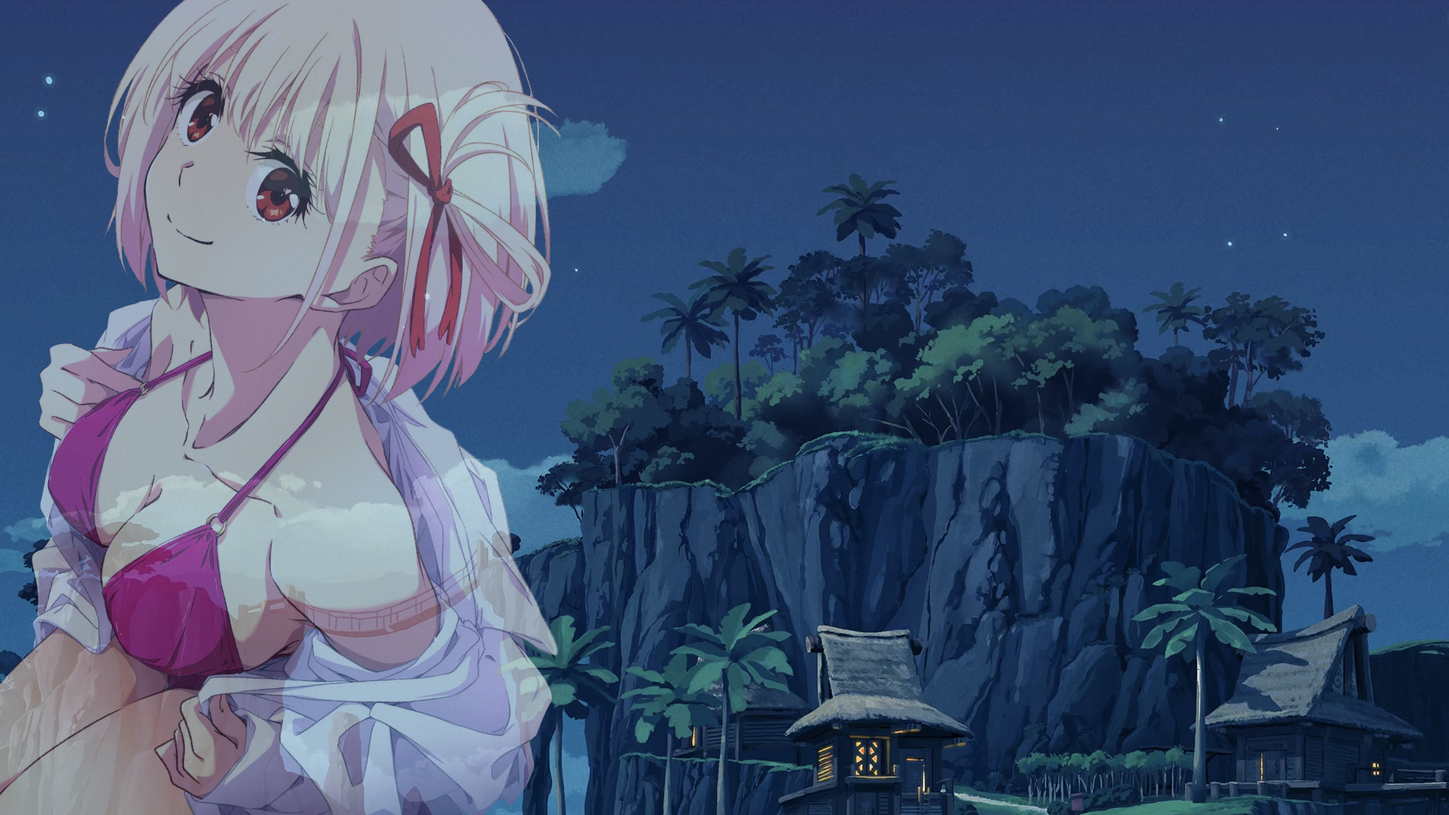
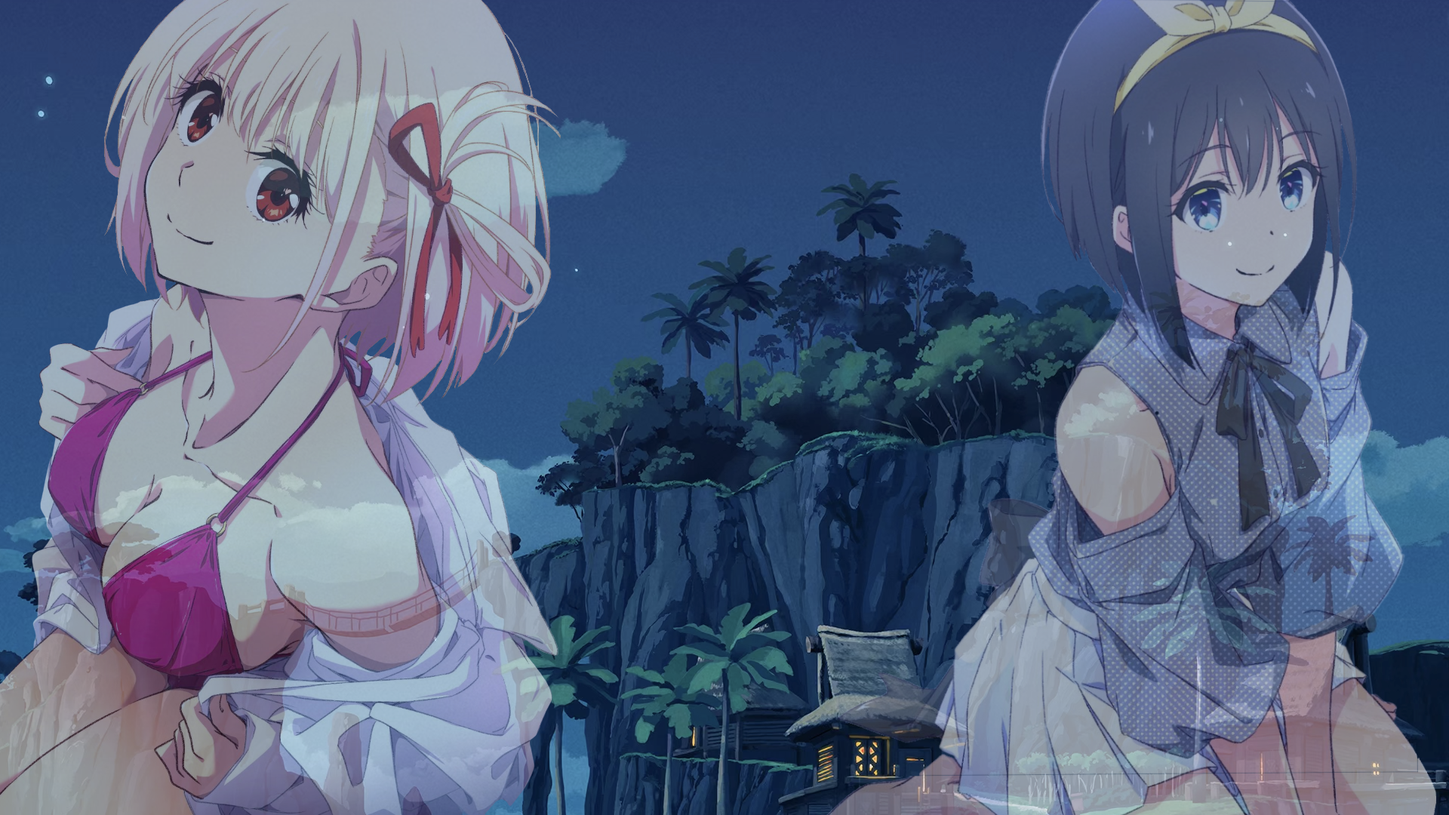
Site updated: 2023-07-01 13:19:53

Changed region(s): [[0.5625, 0.0, 1.0, 1.0]]

diff --git a/index.html b/index.html
@@ -64,7 +64,7 @@
     <script id="hexo-configurations">
     let Global = window.Global || {};
     Global.hexo_config = {"hostname":"r0yx1e.github.io","root":"/","language":"zh-CN"};
-    Global.theme_config = {"articles":{"style":{"font_size":"16px","line_height":1.5,"image_border_radius":"14px","image_alignment":"center","image_caption":false,"link_icon":true},"word_count":{"enable":true,"count":true,"min2read":true},"author_label":{"enable":false,"auto":false,"list":[]},"code_block":{"copy":true,"style":"mac","font":{"enable":false,"family":null,"url":null}},"toc":{"enable":true,"max_depth":3,"number":false,"expand":true,"init_open":true},"copyright":false,"lazyload":true,"recommendation":{"enable":false,"title":"推荐阅读","limit":3,"mobile_limit":2,"placeholder":"/images/wallhaven-wqery6-light.webp","skip_dirs":[]}},"colors":{"primary":"#0096FF","secondary":null},"global":{"fonts":{"chinese":{"enable":false,"family":null,"url":null},"english":{"enable":false,"family":null,"url":null}},"content_max_width":"1000px","sidebar_width":"210px","hover":{"shadow":true,"scale":false},"scroll_progress":{"bar":true,"percentage":true},"busuanzi_counter":{"enable":false,"site_pv":true,"site_uv":true,"post_pv":true},"pjax":true,"open_graph":true,"google_analytics":{"enable":false,"id":null}},"home_banner":{"enable":true,"style":"static","image":{"light":"/images/blackgroud_light.webp","dark":"/images/blackgroud_dark.webp"},"title":"大大的原木墩","subtitle":{"text":[],"hitokoto":{"enable":false,"api":"https://v1.hitokoto.cn"},"typing_speed":100,"backing_speed":80,"starting_delay":500,"backing_delay":1500,"loop":true,"smart_backspace":true},"text_color":{"light":"#fff","dark":"#d1d1b6"},"text_style":{"title_size":"2.8rem","subtitle_size":"1.5rem","line_height":1.2},"custom_font":{"enable":false,"family":null,"url":null},"social_links":{"enable":true,"links":{"github":"https://github.com/R0yX1e","instagram":null,"zhihu":null,"twitter":"https://twitter.com/r0yx1e","email":"r0yx1egithubio@duck.com","telegram":"https://telegram.me/r0yx1e"}}},"plugins":{"feed":{"enable":false},"aplayer":{"enable":true,"type":"fixed","audios":[{"name":null,"artist":null,"url":null,"cover":null}]},"mermaid":{"enable":false,"version":"9.3.0"}},"version":"2.2.1","navbar":{"auto_hide":false,"color":{"left":"#f78736","right":"#367df7","transparency":35},"links":{"Home":{"path":"/","icon":"fa-regular fa-house"},"About":{"path":"/About","icon":"fa-regular fa-user"}},"search":{"enable":false,"preload":true}},"page_templates":{"friends_column":2,"tags_style":"blur"},"home":{"sidebar":{"enable":true,"position":"left","first_item":"menu","announcement":null,"links":null},"article_date_format":"auto","categories":{"enable":true,"limit":3},"tags":{"enable":false,"limit":3}},"footerStart":"2022/8/17 11:45:14"};
+    Global.theme_config = {"articles":{"style":{"font_size":"16px","line_height":1.5,"image_border_radius":"14px","image_alignment":"center","image_caption":false,"link_icon":true},"word_count":{"enable":true,"count":true,"min2read":true},"author_label":{"enable":false,"auto":false,"list":[]},"code_block":{"copy":true,"style":"mac","font":{"enable":false,"family":null,"url":null}},"toc":{"enable":true,"max_depth":3,"number":false,"expand":true,"init_open":true},"copyright":false,"lazyload":true,"recommendation":{"enable":false,"title":"推荐阅读","limit":3,"mobile_limit":2,"placeholder":"/images/wallhaven-wqery6-light.webp","skip_dirs":[]}},"colors":{"primary":"#0096FF","secondary":null},"global":{"fonts":{"chinese":{"enable":false,"family":null,"url":null},"english":{"enable":false,"family":null,"url":null}},"content_max_width":"1000px","sidebar_width":"210px","hover":{"shadow":true,"scale":false},"scroll_progress":{"bar":true,"percentage":true},"busuanzi_counter":{"enable":false,"site_pv":true,"site_uv":true,"post_pv":true},"pjax":true,"open_graph":true,"google_analytics":{"enable":false,"id":null}},"home_banner":{"enable":true,"style":"fixed","image":{"light":"/images/blackgroud_light.webp","dark":"/images/blackgroud_dark.webp"},"title":"大大的原木墩","subtitle":{"text":["加载中..."],"hitokoto":{"enable":true,"api":"https://v1.hitokoto.cn?c=l"},"typing_speed":100,"backing_speed":80,"starting_delay":500,"backing_delay":1500,"loop":false,"smart_backspace":false},"text_color":{"light":"#fff","dark":"#d1d1b6"},"text_style":{"title_size":"2.8rem","subtitle_size":"1.5rem","line_height":1.2},"custom_font":{"enable":false,"family":null,"url":null},"social_links":{"enable":true,"links":{"github":"https://github.com/R0yX1e","instagram":null,"zhihu":null,"twitter":"https://twitter.com/r0yx1e","email":"r0yx1egithubio@duck.com","telegram":"https://telegram.me/r0yx1e"}}},"plugins":{"feed":{"enable":false},"aplayer":{"enable":true,"type":"fixed","audios":[{"name":null,"artist":null,"url":null,"cover":null}]},"mermaid":{"enable":false,"version":"9.3.0"}},"version":"2.2.1","navbar":{"auto_hide":false,"color":{"left":"#f78736","right":"#367df7","transparency":35},"links":{"Home":{"path":"/","icon":"fa-regular fa-house"},"About":{"path":"/About","icon":"fa-regular fa-user"}},"search":{"enable":false,"preload":true}},"page_templates":{"friends_column":2,"tags_style":"blur"},"home":{"sidebar":{"enable":true,"position":"left","first_item":"menu","announcement":null,"links":null},"article_date_format":"auto","categories":{"enable":true,"limit":3},"tags":{"enable":false,"limit":3}},"footerStart":"2022/8/17 11:45:14"};
     Global.language_ago = {"second":"%s 秒前","minute":"%s 分钟前","hour":"%s 小时前","day":"%s 天前","week":"%s 周前","month":"%s 个月前","year":"%s 年前"};
     Global.data_config = {"masonry":false};
   </script>
@@ -108,6 +108,37 @@
 
     
         
+    <style>
+        .home-banner-container {
+            background: transparent !important;
+        }
+        .home-article-item,
+        .sidebar-links,
+        .sidebar-content,
+        a.page-number,
+        a.extend,
+        .sidebar-links .links:hover,
+        .right-bottom-tools,
+        footer.footer {
+            background-color: var(--background-color-transparent-80) !important;
+        }
+        .right-bottom-tools:hover,
+        a.page-number:hover,
+        a.extend:hover {
+            background-color: var(--primary-color) !important;
+        }
+        .site-info,
+        .home-article-sticky-label {
+            background-color: var(--background-color-transparent-15) !important;
+        }
+        .home-article-sticky-label {
+            backdrop-filter: none !important;
+        }
+    </style>
+
+    <div class="home-banner-background">
+    </div>
+
 
 <div class="home-banner-container flex-center">
     <div class="content flex-center">

diff --git a/2023/06/30/海信-VIDDA-提权/index.html b/2023/06/30/海信-VIDDA-提权/index.html
@@ -81,7 +81,7 @@
     <script id="hexo-configurations">
     let Global = window.Global || {};
     Global.hexo_config = {"hostname":"r0yx1e.github.io","root":"/","language":"zh-CN"};
-    Global.theme_config = {"articles":{"style":{"font_size":"16px","line_height":1.5,"image_border_radius":"14px","image_alignment":"center","image_caption":false,"link_icon":true},"word_count":{"enable":true,"count":true,"min2read":true},"author_label":{"enable":false,"auto":false,"list":[]},"code_block":{"copy":true,"style":"mac","font":{"enable":false,"family":null,"url":null}},"toc":{"enable":true,"max_depth":3,"number":false,"expand":true,"init_open":true},"copyright":false,"lazyload":true,"recommendation":{"enable":false,"title":"推荐阅读","limit":3,"mobile_limit":2,"placeholder":"/images/wallhaven-wqery6-light.webp","skip_dirs":[]}},"colors":{"primary":"#0096FF","secondary":null},"global":{"fonts":{"chinese":{"enable":false,"family":null,"url":null},"english":{"enable":false,"family":null,"url":null}},"content_max_width":"1000px","sidebar_width":"210px","hover":{"shadow":true,"scale":false},"scroll_progress":{"bar":true,"percentage":true},"busuanzi_counter":{"enable":false,"site_pv":true,"site_uv":true,"post_pv":true},"pjax":true,"open_graph":true,"google_analytics":{"enable":false,"id":null}},"home_banner":{"enable":true,"style":"static","image":{"light":"/images/blackgroud_light.webp","dark":"/images/blackgroud_dark.webp"},"title":"大大的原木墩","subtitle":{"text":[],"hitokoto":{"enable":false,"api":"https://v1.hitokoto.cn"},"typing_speed":100,"backing_speed":80,"starting_delay":500,"backing_delay":1500,"loop":true,"smart_backspace":true},"text_color":{"light":"#fff","dark":"#d1d1b6"},"text_style":{"title_size":"2.8rem","subtitle_size":"1.5rem","line_height":1.2},"custom_font":{"enable":false,"family":null,"url":null},"social_links":{"enable":true,"links":{"github":"https://github.com/R0yX1e","instagram":null,"zhihu":null,"twitter":"https://twitter.com/r0yx1e","email":"r0yx1egithubio@duck.com","telegram":"https://telegram.me/r0yx1e"}}},"plugins":{"feed":{"enable":false},"aplayer":{"enable":true,"type":"fixed","audios":[{"name":null,"artist":null,"url":null,"cover":null}]},"mermaid":{"enable":false,"version":"9.3.0"}},"version":"2.2.1","navbar":{"auto_hide":false,"color":{"left":"#f78736","right":"#367df7","transparency":35},"links":{"Home":{"path":"/","icon":"fa-regular fa-house"},"About":{"path":"/About","icon":"fa-regular fa-user"}},"search":{"enable":false,"preload":true}},"page_templates":{"friends_column":2,"tags_style":"blur"},"home":{"sidebar":{"enable":true,"position":"left","first_item":"menu","announcement":null,"links":null},"article_date_format":"auto","categories":{"enable":true,"limit":3},"tags":{"enable":false,"limit":3}},"footerStart":"2022/8/17 11:45:14"};
+    Global.theme_config = {"articles":{"style":{"font_size":"16px","line_height":1.5,"image_border_radius":"14px","image_alignment":"center","image_caption":false,"link_icon":true},"word_count":{"enable":true,"count":true,"min2read":true},"author_label":{"enable":false,"auto":false,"list":[]},"code_block":{"copy":true,"style":"mac","font":{"enable":false,"family":null,"url":null}},"toc":{"enable":true,"max_depth":3,"number":false,"expand":true,"init_open":true},"copyright":false,"lazyload":true,"recommendation":{"enable":false,"title":"推荐阅读","limit":3,"mobile_limit":2,"placeholder":"/images/wallhaven-wqery6-light.webp","skip_dirs":[]}},"colors":{"primary":"#0096FF","secondary":null},"global":{"fonts":{"chinese":{"enable":false,"family":null,"url":null},"english":{"enable":false,"family":null,"url":null}},"content_max_width":"1000px","sidebar_width":"210px","hover":{"shadow":true,"scale":false},"scroll_progress":{"bar":true,"percentage":true},"busuanzi_counter":{"enable":false,"site_pv":true,"site_uv":true,"post_pv":true},"pjax":true,"open_graph":true,"google_analytics":{"enable":false,"id":null}},"home_banner":{"enable":true,"style":"fixed","image":{"light":"/images/blackgroud_light.webp","dark":"/images/blackgroud_dark.webp"},"title":"大大的原木墩","subtitle":{"text":["加载中..."],"hitokoto":{"enable":true,"api":"https://v1.hitokoto.cn?c=l"},"typing_speed":100,"backing_speed":80,"starting_delay":500,"backing_delay":1500,"loop":false,"smart_backspace":false},"text_color":{"light":"#fff","dark":"#d1d1b6"},"text_style":{"title_size":"2.8rem","subtitle_size":"1.5rem","line_height":1.2},"custom_font":{"enable":false,"family":null,"url":null},"social_links":{"enable":true,"links":{"github":"https://github.com/R0yX1e","instagram":null,"zhihu":null,"twitter":"https://twitter.com/r0yx1e","email":"r0yx1egithubio@duck.com","telegram":"https://telegram.me/r0yx1e"}}},"plugins":{"feed":{"enable":false},"aplayer":{"enable":true,"type":"fixed","audios":[{"name":null,"artist":null,"url":null,"cover":null}]},"mermaid":{"enable":false,"version":"9.3.0"}},"version":"2.2.1","navbar":{"auto_hide":false,"color":{"left":"#f78736","right":"#367df7","transparency":35},"links":{"Home":{"path":"/","icon":"fa-regular fa-house"},"About":{"path":"/About","icon":"fa-regular fa-user"}},"search":{"enable":false,"preload":true}},"page_templates":{"friends_column":2,"tags_style":"blur"},"home":{"sidebar":{"enable":true,"position":"left","first_item":"menu","announcement":null,"links":null},"article_date_format":"auto","categories":{"enable":true,"limit":3},"tags":{"enable":false,"limit":3}},"footerStart":"2022/8/17 11:45:14"};
     Global.language_ago = {"second":"%s 秒前","minute":"%s 分钟前","hour":"%s 小时前","day":"%s 天前","week":"%s 周前","month":"%s 个月前","year":"%s 年前"};
     Global.data_config = {"masonry":false};
   </script>

diff --git a/404.html b/404.html
@@ -66,7 +66,7 @@
     <script id="hexo-configurations">
     let Global = window.Global || {};
     Global.hexo_config = {"hostname":"r0yx1e.github.io","root":"/","language":"zh-CN"};
-    Global.theme_config = {"articles":{"style":{"font_size":"16px","line_height":1.5,"image_border_radius":"14px","image_alignment":"center","image_caption":false,"link_icon":true},"word_count":{"enable":true,"count":true,"min2read":true},"author_label":{"enable":false,"auto":false,"list":[]},"code_block":{"copy":true,"style":"mac","font":{"enable":false,"family":null,"url":null}},"toc":{"enable":true,"max_depth":3,"number":false,"expand":true,"init_open":true},"copyright":false,"lazyload":true,"recommendation":{"enable":false,"title":"推荐阅读","limit":3,"mobile_limit":2,"placeholder":"/images/wallhaven-wqery6-light.webp","skip_dirs":[]}},"colors":{"primary":"#0096FF","secondary":null},"global":{"fonts":{"chinese":{"enable":false,"family":null,"url":null},"english":{"enable":false,"family":null,"url":null}},"content_max_width":"1000px","sidebar_width":"210px","hover":{"shadow":true,"scale":false},"scroll_progress":{"bar":true,"percentage":true},"busuanzi_counter":{"enable":false,"site_pv":true,"site_uv":true,"post_pv":true},"pjax":true,"open_graph":true,"google_analytics":{"enable":false,"id":null}},"home_banner":{"enable":true,"style":"static","image":{"light":"/images/blackgroud_light.webp","dark":"/images/blackgroud_dark.webp"},"title":"大大的原木墩","subtitle":{"text":[],"hitokoto":{"enable":false,"api":"https://v1.hitokoto.cn"},"typing_speed":100,"backing_speed":80,"starting_delay":500,"backing_delay":1500,"loop":true,"smart_backspace":true},"text_color":{"light":"#fff","dark":"#d1d1b6"},"text_style":{"title_size":"2.8rem","subtitle_size":"1.5rem","line_height":1.2},"custom_font":{"enable":false,"family":null,"url":null},"social_links":{"enable":true,"links":{"github":"https://github.com/R0yX1e","instagram":null,"zhihu":null,"twitter":"https://twitter.com/r0yx1e","email":"r0yx1egithubio@duck.com","telegram":"https://telegram.me/r0yx1e"}}},"plugins":{"feed":{"enable":false},"aplayer":{"enable":true,"type":"fixed","audios":[{"name":null,"artist":null,"url":null,"cover":null}]},"mermaid":{"enable":false,"version":"9.3.0"}},"version":"2.2.1","navbar":{"auto_hide":false,"color":{"left":"#f78736","right":"#367df7","transparency":35},"links":{"Home":{"path":"/","icon":"fa-regular fa-house"},"About":{"path":"/About","icon":"fa-regular fa-user"}},"search":{"enable":false,"preload":true}},"page_templates":{"friends_column":2,"tags_style":"blur"},"home":{"sidebar":{"enable":true,"position":"left","first_item":"menu","announcement":null,"links":null},"article_date_format":"auto","categories":{"enable":true,"limit":3},"tags":{"enable":false,"limit":3}},"footerStart":"2022/8/17 11:45:14"};
+    Global.theme_config = {"articles":{"style":{"font_size":"16px","line_height":1.5,"image_border_radius":"14px","image_alignment":"center","image_caption":false,"link_icon":true},"word_count":{"enable":true,"count":true,"min2read":true},"author_label":{"enable":false,"auto":false,"list":[]},"code_block":{"copy":true,"style":"mac","font":{"enable":false,"family":null,"url":null}},"toc":{"enable":true,"max_depth":3,"number":false,"expand":true,"init_open":true},"copyright":false,"lazyload":true,"recommendation":{"enable":false,"title":"推荐阅读","limit":3,"mobile_limit":2,"placeholder":"/images/wallhaven-wqery6-light.webp","skip_dirs":[]}},"colors":{"primary":"#0096FF","secondary":null},"global":{"fonts":{"chinese":{"enable":false,"family":null,"url":null},"english":{"enable":false,"family":null,"url":null}},"content_max_width":"1000px","sidebar_width":"210px","hover":{"shadow":true,"scale":false},"scroll_progress":{"bar":true,"percentage":true},"busuanzi_counter":{"enable":false,"site_pv":true,"site_uv":true,"post_pv":true},"pjax":true,"open_graph":true,"google_analytics":{"enable":false,"id":null}},"home_banner":{"enable":true,"style":"fixed","image":{"light":"/images/blackgroud_light.webp","dark":"/images/blackgroud_dark.webp"},"title":"大大的原木墩","subtitle":{"text":["加载中..."],"hitokoto":{"enable":true,"api":"https://v1.hitokoto.cn?c=l"},"typing_speed":100,"backing_speed":80,"starting_delay":500,"backing_delay":1500,"loop":false,"smart_backspace":false},"text_color":{"light":"#fff","dark":"#d1d1b6"},"text_style":{"title_size":"2.8rem","subtitle_size":"1.5rem","line_height":1.2},"custom_font":{"enable":false,"family":null,"url":null},"social_links":{"enable":true,"links":{"github":"https://github.com/R0yX1e","instagram":null,"zhihu":null,"twitter":"https://twitter.com/r0yx1e","email":"r0yx1egithubio@duck.com","telegram":"https://telegram.me/r0yx1e"}}},"plugins":{"feed":{"enable":false},"aplayer":{"enable":true,"type":"fixed","audios":[{"name":null,"artist":null,"url":null,"cover":null}]},"mermaid":{"enable":false,"version":"9.3.0"}},"version":"2.2.1","navbar":{"auto_hide":false,"color":{"left":"#f78736","right":"#367df7","transparency":35},"links":{"Home":{"path":"/","icon":"fa-regular fa-house"},"About":{"path":"/About","icon":"fa-regular fa-user"}},"search":{"enable":false,"preload":true}},"page_templates":{"friends_column":2,"tags_style":"blur"},"home":{"sidebar":{"enable":true,"position":"left","first_item":"menu","announcement":null,"links":null},"article_date_format":"auto","categories":{"enable":true,"limit":3},"tags":{"enable":false,"limit":3}},"footerStart":"2022/8/17 11:45:14"};
     Global.language_ago = {"second":"%s 秒前","minute":"%s 分钟前","hour":"%s 小时前","day":"%s 天前","week":"%s 周前","month":"%s 个月前","year":"%s 年前"};
     Global.data_config = {"masonry":false};
   </script>

diff --git a/About/index.html b/About/index.html
@@ -68,7 +68,7 @@
     <script id="hexo-configurations">
     let Global = window.Global || {};
     Global.hexo_config = {"hostname":"r0yx1e.github.io","root":"/","language":"zh-CN"};
-    Global.theme_config = {"articles":{"style":{"font_size":"16px","line_height":1.5,"image_border_radius":"14px","image_alignment":"center","image_caption":false,"link_icon":true},"word_count":{"enable":true,"count":true,"min2read":true},"author_label":{"enable":false,"auto":false,"list":[]},"code_block":{"copy":true,"style":"mac","font":{"enable":false,"family":null,"url":null}},"toc":{"enable":true,"max_depth":3,"number":false,"expand":true,"init_open":true},"copyright":false,"lazyload":true,"recommendation":{"enable":false,"title":"推荐阅读","limit":3,"mobile_limit":2,"placeholder":"/images/wallhaven-wqery6-light.webp","skip_dirs":[]}},"colors":{"primary":"#0096FF","secondary":null},"global":{"fonts":{"chinese":{"enable":false,"family":null,"url":null},"english":{"enable":false,"family":null,"url":null}},"content_max_width":"1000px","sidebar_width":"210px","hover":{"shadow":true,"scale":false},"scroll_progress":{"bar":true,"percentage":true},"busuanzi_counter":{"enable":false,"site_pv":true,"site_uv":true,"post_pv":true},"pjax":true,"open_graph":true,"google_analytics":{"enable":false,"id":null}},"home_banner":{"enable":true,"style":"static","image":{"light":"/images/blackgroud_light.webp","dark":"/images/blackgroud_dark.webp"},"title":"大大的原木墩","subtitle":{"text":[],"hitokoto":{"enable":false,"api":"https://v1.hitokoto.cn"},"typing_speed":100,"backing_speed":80,"starting_delay":500,"backing_delay":1500,"loop":true,"smart_backspace":true},"text_color":{"light":"#fff","dark":"#d1d1b6"},"text_style":{"title_size":"2.8rem","subtitle_size":"1.5rem","line_height":1.2},"custom_font":{"enable":false,"family":null,"url":null},"social_links":{"enable":true,"links":{"github":"https://github.com/R0yX1e","instagram":null,"zhihu":null,"twitter":"https://twitter.com/r0yx1e","email":"r0yx1egithubio@duck.com","telegram":"https://telegram.me/r0yx1e"}}},"plugins":{"feed":{"enable":false},"aplayer":{"enable":true,"type":"fixed","audios":[{"name":null,"artist":null,"url":null,"cover":null}]},"mermaid":{"enable":false,"version":"9.3.0"}},"version":"2.2.1","navbar":{"auto_hide":false,"color":{"left":"#f78736","right":"#367df7","transparency":35},"links":{"Home":{"path":"/","icon":"fa-regular fa-house"},"About":{"path":"/About","icon":"fa-regular fa-user"}},"search":{"enable":false,"preload":true}},"page_templates":{"friends_column":2,"tags_style":"blur"},"home":{"sidebar":{"enable":true,"position":"left","first_item":"menu","announcement":null,"links":null},"article_date_format":"auto","categories":{"enable":true,"limit":3},"tags":{"enable":false,"limit":3}},"footerStart":"2022/8/17 11:45:14"};
+    Global.theme_config = {"articles":{"style":{"font_size":"16px","line_height":1.5,"image_border_radius":"14px","image_alignment":"center","image_caption":false,"link_icon":true},"word_count":{"enable":true,"count":true,"min2read":true},"author_label":{"enable":false,"auto":false,"list":[]},"code_block":{"copy":true,"style":"mac","font":{"enable":false,"family":null,"url":null}},"toc":{"enable":true,"max_depth":3,"number":false,"expand":true,"init_open":true},"copyright":false,"lazyload":true,"recommendation":{"enable":false,"title":"推荐阅读","limit":3,"mobile_limit":2,"placeholder":"/images/wallhaven-wqery6-light.webp","skip_dirs":[]}},"colors":{"primary":"#0096FF","secondary":null},"global":{"fonts":{"chinese":{"enable":false,"family":null,"url":null},"english":{"enable":false,"family":null,"url":null}},"content_max_width":"1000px","sidebar_width":"210px","hover":{"shadow":true,"scale":false},"scroll_progress":{"bar":true,"percentage":true},"busuanzi_counter":{"enable":false,"site_pv":true,"site_uv":true,"post_pv":true},"pjax":true,"open_graph":true,"google_analytics":{"enable":false,"id":null}},"home_banner":{"enable":true,"style":"fixed","image":{"light":"/images/blackgroud_light.webp","dark":"/images/blackgroud_dark.webp"},"title":"大大的原木墩","subtitle":{"text":["加载中..."],"hitokoto":{"enable":true,"api":"https://v1.hitokoto.cn?c=l"},"typing_speed":100,"backing_speed":80,"starting_delay":500,"backing_delay":1500,"loop":false,"smart_backspace":false},"text_color":{"light":"#fff","dark":"#d1d1b6"},"text_style":{"title_size":"2.8rem","subtitle_size":"1.5rem","line_height":1.2},"custom_font":{"enable":false,"family":null,"url":null},"social_links":{"enable":true,"links":{"github":"https://github.com/R0yX1e","instagram":null,"zhihu":null,"twitter":"https://twitter.com/r0yx1e","email":"r0yx1egithubio@duck.com","telegram":"https://telegram.me/r0yx1e"}}},"plugins":{"feed":{"enable":false},"aplayer":{"enable":true,"type":"fixed","audios":[{"name":null,"artist":null,"url":null,"cover":null}]},"mermaid":{"enable":false,"version":"9.3.0"}},"version":"2.2.1","navbar":{"auto_hide":false,"color":{"left":"#f78736","right":"#367df7","transparency":35},"links":{"Home":{"path":"/","icon":"fa-regular fa-house"},"About":{"path":"/About","icon":"fa-regular fa-user"}},"search":{"enable":false,"preload":true}},"page_templates":{"friends_column":2,"tags_style":"blur"},"home":{"sidebar":{"enable":true,"position":"left","first_item":"menu","announcement":null,"links":null},"article_date_format":"auto","categories":{"enable":true,"limit":3},"tags":{"enable":false,"limit":3}},"footerStart":"2022/8/17 11:45:14"};
     Global.language_ago = {"second":"%s 秒前","minute":"%s 分钟前","hour":"%s 小时前","day":"%s 天前","week":"%s 周前","month":"%s 个月前","year":"%s 年前"};
     Global.data_config = {"masonry":false};
   </script>

diff --git a/archives/2023/06/index.html b/archives/2023/06/index.html
@@ -66,7 +66,7 @@
     <script id="hexo-configurations">
     let Global = window.Global || {};
     Global.hexo_config = {"hostname":"r0yx1e.github.io","root":"/","language":"zh-CN"};
-    Global.theme_config = {"articles":{"style":{"font_size":"16px","line_height":1.5,"image_border_radius":"14px","image_alignment":"center","image_caption":false,"link_icon":true},"word_count":{"enable":true,"count":true,"min2read":true},"author_label":{"enable":false,"auto":false,"list":[]},"code_block":{"copy":true,"style":"mac","font":{"enable":false,"family":null,"url":null}},"toc":{"enable":true,"max_depth":3,"number":false,"expand":true,"init_open":true},"copyright":false,"lazyload":true,"recommendation":{"enable":false,"title":"推荐阅读","limit":3,"mobile_limit":2,"placeholder":"/images/wallhaven-wqery6-light.webp","skip_dirs":[]}},"colors":{"primary":"#0096FF","secondary":null},"global":{"fonts":{"chinese":{"enable":false,"family":null,"url":null},"english":{"enable":false,"family":null,"url":null}},"content_max_width":"1000px","sidebar_width":"210px","hover":{"shadow":true,"scale":false},"scroll_progress":{"bar":true,"percentage":true},"busuanzi_counter":{"enable":false,"site_pv":true,"site_uv":true,"post_pv":true},"pjax":true,"open_graph":true,"google_analytics":{"enable":false,"id":null}},"home_banner":{"enable":true,"style":"static","image":{"light":"/images/blackgroud_light.webp","dark":"/images/blackgroud_dark.webp"},"title":"大大的原木墩","subtitle":{"text":[],"hitokoto":{"enable":false,"api":"https://v1.hitokoto.cn"},"typing_speed":100,"backing_speed":80,"starting_delay":500,"backing_delay":1500,"loop":true,"smart_backspace":true},"text_color":{"light":"#fff","dark":"#d1d1b6"},"text_style":{"title_size":"2.8rem","subtitle_size":"1.5rem","line_height":1.2},"custom_font":{"enable":false,"family":null,"url":null},"social_links":{"enable":true,"links":{"github":"https://github.com/R0yX1e","instagram":null,"zhihu":null,"twitter":"https://twitter.com/r0yx1e","email":"r0yx1egithubio@duck.com","telegram":"https://telegram.me/r0yx1e"}}},"plugins":{"feed":{"enable":false},"aplayer":{"enable":true,"type":"fixed","audios":[{"name":null,"artist":null,"url":null,"cover":null}]},"mermaid":{"enable":false,"version":"9.3.0"}},"version":"2.2.1","navbar":{"auto_hide":false,"color":{"left":"#f78736","right":"#367df7","transparency":35},"links":{"Home":{"path":"/","icon":"fa-regular fa-house"},"About":{"path":"/About","icon":"fa-regular fa-user"}},"search":{"enable":false,"preload":true}},"page_templates":{"friends_column":2,"tags_style":"blur"},"home":{"sidebar":{"enable":true,"position":"left","first_item":"menu","announcement":null,"links":null},"article_date_format":"auto","categories":{"enable":true,"limit":3},"tags":{"enable":false,"limit":3}},"footerStart":"2022/8/17 11:45:14"};
+    Global.theme_config = {"articles":{"style":{"font_size":"16px","line_height":1.5,"image_border_radius":"14px","image_alignment":"center","image_caption":false,"link_icon":true},"word_count":{"enable":true,"count":true,"min2read":true},"author_label":{"enable":false,"auto":false,"list":[]},"code_block":{"copy":true,"style":"mac","font":{"enable":false,"family":null,"url":null}},"toc":{"enable":true,"max_depth":3,"number":false,"expand":true,"init_open":true},"copyright":false,"lazyload":true,"recommendation":{"enable":false,"title":"推荐阅读","limit":3,"mobile_limit":2,"placeholder":"/images/wallhaven-wqery6-light.webp","skip_dirs":[]}},"colors":{"primary":"#0096FF","secondary":null},"global":{"fonts":{"chinese":{"enable":false,"family":null,"url":null},"english":{"enable":false,"family":null,"url":null}},"content_max_width":"1000px","sidebar_width":"210px","hover":{"shadow":true,"scale":false},"scroll_progress":{"bar":true,"percentage":true},"busuanzi_counter":{"enable":false,"site_pv":true,"site_uv":true,"post_pv":true},"pjax":true,"open_graph":true,"google_analytics":{"enable":false,"id":null}},"home_banner":{"enable":true,"style":"fixed","image":{"light":"/images/blackgroud_light.webp","dark":"/images/blackgroud_dark.webp"},"title":"大大的原木墩","subtitle":{"text":["加载中..."],"hitokoto":{"enable":true,"api":"https://v1.hitokoto.cn?c=l"},"typing_speed":100,"backing_speed":80,"starting_delay":500,"backing_delay":1500,"loop":false,"smart_backspace":false},"text_color":{"light":"#fff","dark":"#d1d1b6"},"text_style":{"title_size":"2.8rem","subtitle_size":"1.5rem","line_height":1.2},"custom_font":{"enable":false,"family":null,"url":null},"social_links":{"enable":true,"links":{"github":"https://github.com/R0yX1e","instagram":null,"zhihu":null,"twitter":"https://twitter.com/r0yx1e","email":"r0yx1egithubio@duck.com","telegram":"https://telegram.me/r0yx1e"}}},"plugins":{"feed":{"enable":false},"aplayer":{"enable":true,"type":"fixed","audios":[{"name":null,"artist":null,"url":null,"cover":null}]},"mermaid":{"enable":false,"version":"9.3.0"}},"version":"2.2.1","navbar":{"auto_hide":false,"color":{"left":"#f78736","right":"#367df7","transparency":35},"links":{"Home":{"path":"/","icon":"fa-regular fa-house"},"About":{"path":"/About","icon":"fa-regular fa-user"}},"search":{"enable":false,"preload":true}},"page_templates":{"friends_column":2,"tags_style":"blur"},"home":{"sidebar":{"enable":true,"position":"left","first_item":"menu","announcement":null,"links":null},"article_date_format":"auto","categories":{"enable":true,"limit":3},"tags":{"enable":false,"limit":3}},"footerStart":"2022/8/17 11:45:14"};
     Global.language_ago = {"second":"%s 秒前","minute":"%s 分钟前","hour":"%s 小时前","day":"%s 天前","week":"%s 周前","month":"%s 个月前","year":"%s 年前"};
     Global.data_config = {"masonry":false};
   </script>

diff --git a/archives/2023/index.html b/archives/2023/index.html
@@ -66,7 +66,7 @@
     <script id="hexo-configurations">
     let Global = window.Global || {};
     Global.hexo_config = {"hostname":"r0yx1e.github.io","root":"/","language":"zh-CN"};
-    Global.theme_config = {"articles":{"style":{"font_size":"16px","line_height":1.5,"image_border_radius":"14px","image_alignment":"center","image_caption":false,"link_icon":true},"word_count":{"enable":true,"count":true,"min2read":true},"author_label":{"enable":false,"auto":false,"list":[]},"code_block":{"copy":true,"style":"mac","font":{"enable":false,"family":null,"url":null}},"toc":{"enable":true,"max_depth":3,"number":false,"expand":true,"init_open":true},"copyright":false,"lazyload":true,"recommendation":{"enable":false,"title":"推荐阅读","limit":3,"mobile_limit":2,"placeholder":"/images/wallhaven-wqery6-light.webp","skip_dirs":[]}},"colors":{"primary":"#0096FF","secondary":null},"global":{"fonts":{"chinese":{"enable":false,"family":null,"url":null},"english":{"enable":false,"family":null,"url":null}},"content_max_width":"1000px","sidebar_width":"210px","hover":{"shadow":true,"scale":false},"scroll_progress":{"bar":true,"percentage":true},"busuanzi_counter":{"enable":false,"site_pv":true,"site_uv":true,"post_pv":true},"pjax":true,"open_graph":true,"google_analytics":{"enable":false,"id":null}},"home_banner":{"enable":true,"style":"static","image":{"light":"/images/blackgroud_light.webp","dark":"/images/blackgroud_dark.webp"},"title":"大大的原木墩","subtitle":{"text":[],"hitokoto":{"enable":false,"api":"https://v1.hitokoto.cn"},"typing_speed":100,"backing_speed":80,"starting_delay":500,"backing_delay":1500,"loop":true,"smart_backspace":true},"text_color":{"light":"#fff","dark":"#d1d1b6"},"text_style":{"title_size":"2.8rem","subtitle_size":"1.5rem","line_height":1.2},"custom_font":{"enable":false,"family":null,"url":null},"social_links":{"enable":true,"links":{"github":"https://github.com/R0yX1e","instagram":null,"zhihu":null,"twitter":"https://twitter.com/r0yx1e","email":"r0yx1egithubio@duck.com","telegram":"https://telegram.me/r0yx1e"}}},"plugins":{"feed":{"enable":false},"aplayer":{"enable":true,"type":"fixed","audios":[{"name":null,"artist":null,"url":null,"cover":null}]},"mermaid":{"enable":false,"version":"9.3.0"}},"version":"2.2.1","navbar":{"auto_hide":false,"color":{"left":"#f78736","right":"#367df7","transparency":35},"links":{"Home":{"path":"/","icon":"fa-regular fa-house"},"About":{"path":"/About","icon":"fa-regular fa-user"}},"search":{"enable":false,"preload":true}},"page_templates":{"friends_column":2,"tags_style":"blur"},"home":{"sidebar":{"enable":true,"position":"left","first_item":"menu","announcement":null,"links":null},"article_date_format":"auto","categories":{"enable":true,"limit":3},"tags":{"enable":false,"limit":3}},"footerStart":"2022/8/17 11:45:14"};
+    Global.theme_config = {"articles":{"style":{"font_size":"16px","line_height":1.5,"image_border_radius":"14px","image_alignment":"center","image_caption":false,"link_icon":true},"word_count":{"enable":true,"count":true,"min2read":true},"author_label":{"enable":false,"auto":false,"list":[]},"code_block":{"copy":true,"style":"mac","font":{"enable":false,"family":null,"url":null}},"toc":{"enable":true,"max_depth":3,"number":false,"expand":true,"init_open":true},"copyright":false,"lazyload":true,"recommendation":{"enable":false,"title":"推荐阅读","limit":3,"mobile_limit":2,"placeholder":"/images/wallhaven-wqery6-light.webp","skip_dirs":[]}},"colors":{"primary":"#0096FF","secondary":null},"global":{"fonts":{"chinese":{"enable":false,"family":null,"url":null},"english":{"enable":false,"family":null,"url":null}},"content_max_width":"1000px","sidebar_width":"210px","hover":{"shadow":true,"scale":false},"scroll_progress":{"bar":true,"percentage":true},"busuanzi_counter":{"enable":false,"site_pv":true,"site_uv":true,"post_pv":true},"pjax":true,"open_graph":true,"google_analytics":{"enable":false,"id":null}},"home_banner":{"enable":true,"style":"fixed","image":{"light":"/images/blackgroud_light.webp","dark":"/images/blackgroud_dark.webp"},"title":"大大的原木墩","subtitle":{"text":["加载中..."],"hitokoto":{"enable":true,"api":"https://v1.hitokoto.cn?c=l"},"typing_speed":100,"backing_speed":80,"starting_delay":500,"backing_delay":1500,"loop":false,"smart_backspace":false},"text_color":{"light":"#fff","dark":"#d1d1b6"},"text_style":{"title_size":"2.8rem","subtitle_size":"1.5rem","line_height":1.2},"custom_font":{"enable":false,"family":null,"url":null},"social_links":{"enable":true,"links":{"github":"https://github.com/R0yX1e","instagram":null,"zhihu":null,"twitter":"https://twitter.com/r0yx1e","email":"r0yx1egithubio@duck.com","telegram":"https://telegram.me/r0yx1e"}}},"plugins":{"feed":{"enable":false},"aplayer":{"enable":true,"type":"fixed","audios":[{"name":null,"artist":null,"url":null,"cover":null}]},"mermaid":{"enable":false,"version":"9.3.0"}},"version":"2.2.1","navbar":{"auto_hide":false,"color":{"left":"#f78736","right":"#367df7","transparency":35},"links":{"Home":{"path":"/","icon":"fa-regular fa-house"},"About":{"path":"/About","icon":"fa-regular fa-user"}},"search":{"enable":false,"preload":true}},"page_templates":{"friends_column":2,"tags_style":"blur"},"home":{"sidebar":{"enable":true,"position":"left","first_item":"menu","announcement":null,"links":null},"article_date_format":"auto","categories":{"enable":true,"limit":3},"tags":{"enable":false,"limit":3}},"footerStart":"2022/8/17 11:45:14"};
     Global.language_ago = {"second":"%s 秒前","minute":"%s 分钟前","hour":"%s 小时前","day":"%s 天前","week":"%s 周前","month":"%s 个月前","year":"%s 年前"};
     Global.data_config = {"masonry":false};
   </script>

diff --git a/archives/index.html b/archives/index.html
@@ -66,7 +66,7 @@
     <script id="hexo-configurations">
     let Global = window.Global || {};
     Global.hexo_config = {"hostname":"r0yx1e.github.io","root":"/","language":"zh-CN"};
-    Global.theme_config = {"articles":{"style":{"font_size":"16px","line_height":1.5,"image_border_radius":"14px","image_alignment":"center","image_caption":false,"link_icon":true},"word_count":{"enable":true,"count":true,"min2read":true},"author_label":{"enable":false,"auto":false,"list":[]},"code_block":{"copy":true,"style":"mac","font":{"enable":false,"family":null,"url":null}},"toc":{"enable":true,"max_depth":3,"number":false,"expand":true,"init_open":true},"copyright":false,"lazyload":true,"recommendation":{"enable":false,"title":"推荐阅读","limit":3,"mobile_limit":2,"placeholder":"/images/wallhaven-wqery6-light.webp","skip_dirs":[]}},"colors":{"primary":"#0096FF","secondary":null},"global":{"fonts":{"chinese":{"enable":false,"family":null,"url":null},"english":{"enable":false,"family":null,"url":null}},"content_max_width":"1000px","sidebar_width":"210px","hover":{"shadow":true,"scale":false},"scroll_progress":{"bar":true,"percentage":true},"busuanzi_counter":{"enable":false,"site_pv":true,"site_uv":true,"post_pv":true},"pjax":true,"open_graph":true,"google_analytics":{"enable":false,"id":null}},"home_banner":{"enable":true,"style":"static","image":{"light":"/images/blackgroud_light.webp","dark":"/images/blackgroud_dark.webp"},"title":"大大的原木墩","subtitle":{"text":[],"hitokoto":{"enable":false,"api":"https://v1.hitokoto.cn"},"typing_speed":100,"backing_speed":80,"starting_delay":500,"backing_delay":1500,"loop":true,"smart_backspace":true},"text_color":{"light":"#fff","dark":"#d1d1b6"},"text_style":{"title_size":"2.8rem","subtitle_size":"1.5rem","line_height":1.2},"custom_font":{"enable":false,"family":null,"url":null},"social_links":{"enable":true,"links":{"github":"https://github.com/R0yX1e","instagram":null,"zhihu":null,"twitter":"https://twitter.com/r0yx1e","email":"r0yx1egithubio@duck.com","telegram":"https://telegram.me/r0yx1e"}}},"plugins":{"feed":{"enable":false},"aplayer":{"enable":true,"type":"fixed","audios":[{"name":null,"artist":null,"url":null,"cover":null}]},"mermaid":{"enable":false,"version":"9.3.0"}},"version":"2.2.1","navbar":{"auto_hide":false,"color":{"left":"#f78736","right":"#367df7","transparency":35},"links":{"Home":{"path":"/","icon":"fa-regular fa-house"},"About":{"path":"/About","icon":"fa-regular fa-user"}},"search":{"enable":false,"preload":true}},"page_templates":{"friends_column":2,"tags_style":"blur"},"home":{"sidebar":{"enable":true,"position":"left","first_item":"menu","announcement":null,"links":null},"article_date_format":"auto","categories":{"enable":true,"limit":3},"tags":{"enable":false,"limit":3}},"footerStart":"2022/8/17 11:45:14"};
+    Global.theme_config = {"articles":{"style":{"font_size":"16px","line_height":1.5,"image_border_radius":"14px","image_alignment":"center","image_caption":false,"link_icon":true},"word_count":{"enable":true,"count":true,"min2read":true},"author_label":{"enable":false,"auto":false,"list":[]},"code_block":{"copy":true,"style":"mac","font":{"enable":false,"family":null,"url":null}},"toc":{"enable":true,"max_depth":3,"number":false,"expand":true,"init_open":true},"copyright":false,"lazyload":true,"recommendation":{"enable":false,"title":"推荐阅读","limit":3,"mobile_limit":2,"placeholder":"/images/wallhaven-wqery6-light.webp","skip_dirs":[]}},"colors":{"primary":"#0096FF","secondary":null},"global":{"fonts":{"chinese":{"enable":false,"family":null,"url":null},"english":{"enable":false,"family":null,"url":null}},"content_max_width":"1000px","sidebar_width":"210px","hover":{"shadow":true,"scale":false},"scroll_progress":{"bar":true,"percentage":true},"busuanzi_counter":{"enable":false,"site_pv":true,"site_uv":true,"post_pv":true},"pjax":true,"open_graph":true,"google_analytics":{"enable":false,"id":null}},"home_banner":{"enable":true,"style":"fixed","image":{"light":"/images/blackgroud_light.webp","dark":"/images/blackgroud_dark.webp"},"title":"大大的原木墩","subtitle":{"text":["加载中..."],"hitokoto":{"enable":true,"api":"https://v1.hitokoto.cn?c=l"},"typing_speed":100,"backing_speed":80,"starting_delay":500,"backing_delay":1500,"loop":false,"smart_backspace":false},"text_color":{"light":"#fff","dark":"#d1d1b6"},"text_style":{"title_size":"2.8rem","subtitle_size":"1.5rem","line_height":1.2},"custom_font":{"enable":false,"family":null,"url":null},"social_links":{"enable":true,"links":{"github":"https://github.com/R0yX1e","instagram":null,"zhihu":null,"twitter":"https://twitter.com/r0yx1e","email":"r0yx1egithubio@duck.com","telegram":"https://telegram.me/r0yx1e"}}},"plugins":{"feed":{"enable":false},"aplayer":{"enable":true,"type":"fixed","audios":[{"name":null,"artist":null,"url":null,"cover":null}]},"mermaid":{"enable":false,"version":"9.3.0"}},"version":"2.2.1","navbar":{"auto_hide":false,"color":{"left":"#f78736","right":"#367df7","transparency":35},"links":{"Home":{"path":"/","icon":"fa-regular fa-house"},"About":{"path":"/About","icon":"fa-regular fa-user"}},"search":{"enable":false,"preload":true}},"page_templates":{"friends_column":2,"tags_style":"blur"},"home":{"sidebar":{"enable":true,"position":"left","first_item":"menu","announcement":null,"links":null},"article_date_format":"auto","categories":{"enable":true,"limit":3},"tags":{"enable":false,"limit":3}},"footerStart":"2022/8/17 11:45:14"};
     Global.language_ago = {"second":"%s 秒前","minute":"%s 分钟前","hour":"%s 小时前","day":"%s 天前","week":"%s 周前","month":"%s 个月前","year":"%s 年前"};
     Global.data_config = {"masonry":false};
   </script>
